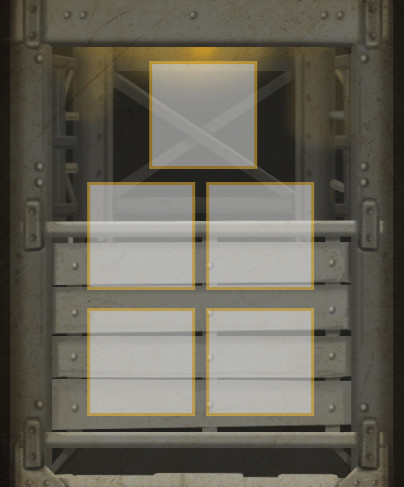
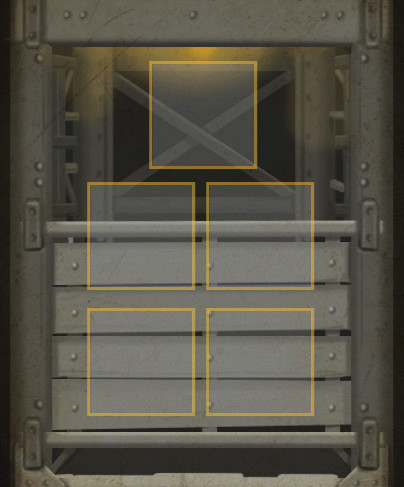
Highlight cubes more

Changed region(s): [[0.505, 0.3696, 0.7723, 0.8624], [0.2079, 0.3696, 0.4752, 0.8624], [0.3564, 0.1232, 0.6535, 0.3388]]

diff --git a/coalbaron.css b/coalbaron.css
@@ -722,7 +722,10 @@
     border-radius: 0;
     box-shadow: none;
     width: 40px;
-    height: 40px; }
+    height: 40px;
+    border-radius: 7px;
+    background-color: #ffffff7d;
+    box-shadow: 0px 0px 7px 3px #ffffff9e; }
     .coalbaron-meeple.icon-yellow_coal.icon-brown_coal, .coalbaron-meeple.icon-brown_coal.icon-brown_coal, .coalbaron-meeple.icon-grey_coal.icon-brown_coal, .coalbaron-meeple.icon-black_coal.icon-brown_coal {
       background-position-x: 33.3333%; }
     .coalbaron-meeple.icon-yellow_coal.icon-grey_coal, .coalbaron-meeple.icon-brown_coal.icon-grey_coal, .coalbaron-meeple.icon-grey_coal.icon-grey_coal, .coalbaron-meeple.icon-black_coal.icon-grey_coal {

diff --git a/modules/css/meeples.scss b/modules/css/meeples.scss
@@ -27,6 +27,10 @@
             background-position-x: 100%;
         }
 
+        border-radius: 7px;
+        background-color: #ffffff7d;
+        box-shadow: 0px 0px 7px 3px #ffffff9e;
+
         &.selectable {
             cursor: pointer;
             background-color: #ffd700d1;

diff --git a/coalbaron.js b/coalbaron.js
@@ -620,7 +620,7 @@ define([
         <h3>Minecart tile:</h3>
         <ul>
           <li>Coal: ${info.names[n - 1]}</li>
-          <li>Cost: ${n * info.cost}$</li>
+          <li>Cost: ${n * info.cost} ${_('Franc(s)')}</li>
         </ul>
       </div>`;
     },
